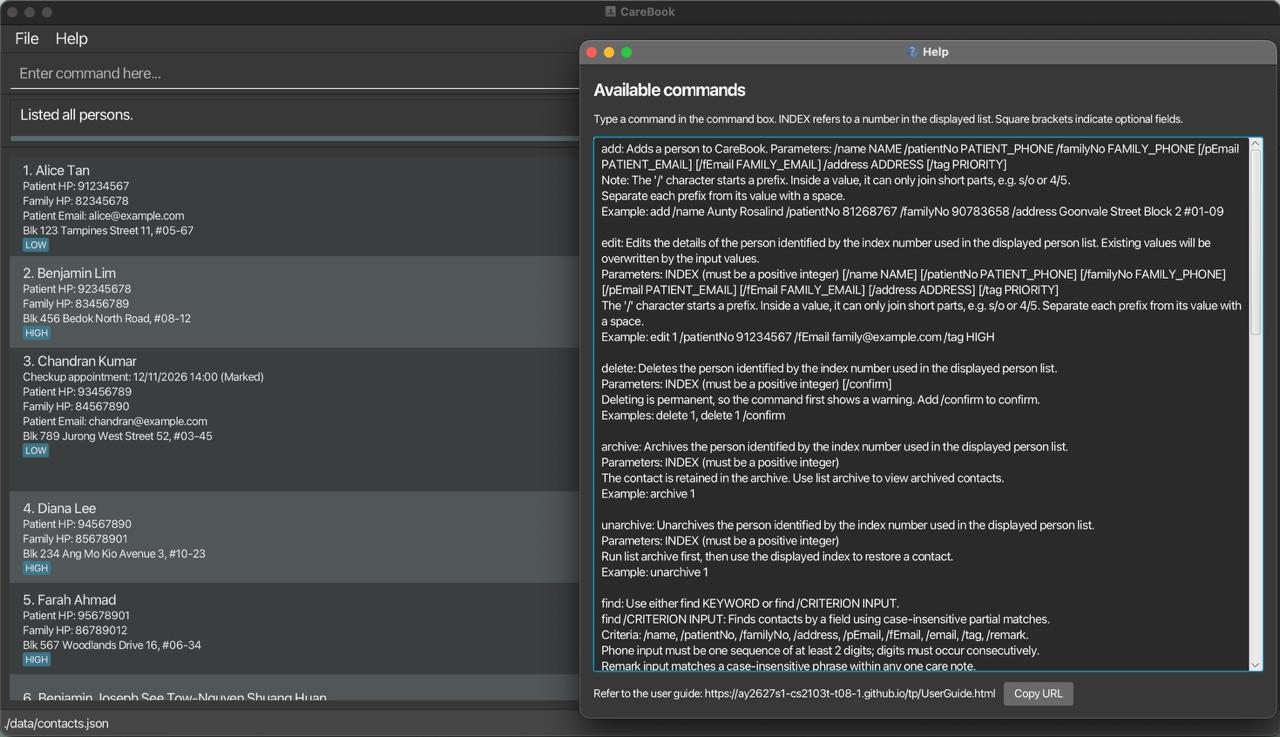
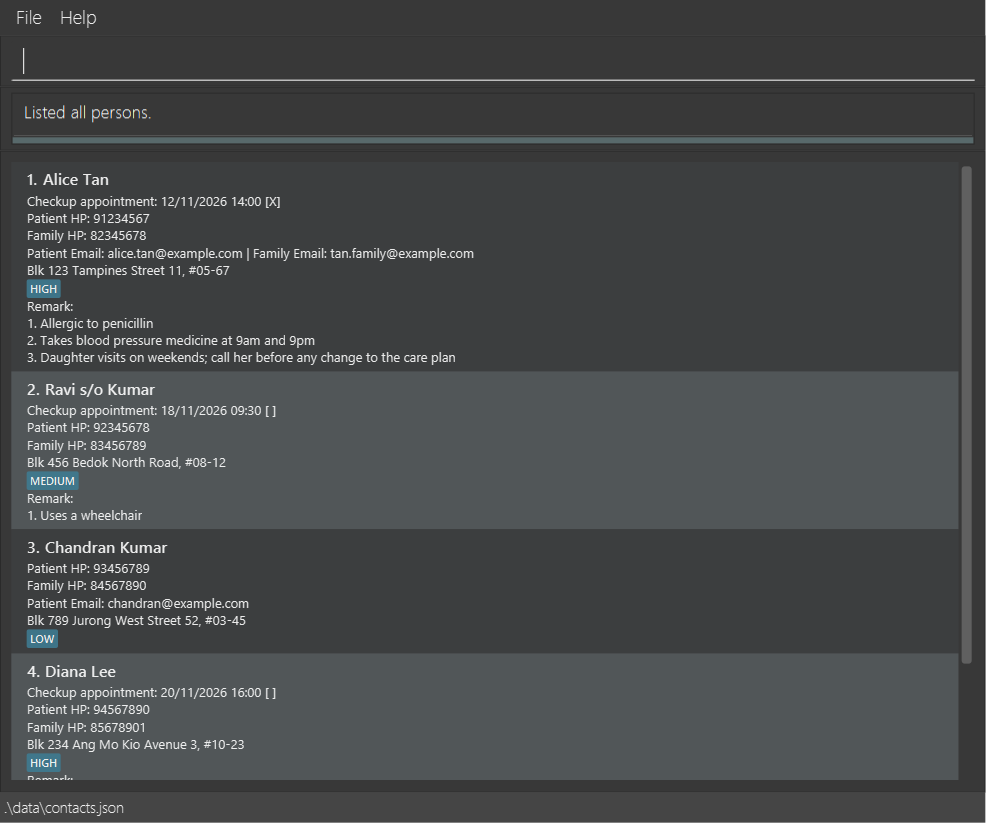
Update the screenshot and About Us links

diff --git a/docs/AboutUs.md b/docs/AboutUs.md
@@ -24,7 +24,6 @@ You can reach us at the email `seer[at]comp.nus.edu.sg`
 <img src="images/malyalakusumita.png" width="200px">
 
 [[github](http://github.com/malyalakusumita)]
-[[portfolio](team/johndoe.md)]
 
 * Role: Team Lead
 * Responsibilities: UI
@@ -34,7 +33,6 @@ You can reach us at the email `seer[at]comp.nus.edu.sg`
 <img src="images/ys-243.png" width="200px">
 
 [[github](https://github.com/ys-243)]
-[[portfolio](team/johndoe.md)]
 
 * Role: Developer
 * Responsibilities: Data
@@ -53,7 +51,6 @@ You can reach us at the email `seer[at]comp.nus.edu.sg`
 <img src="images/carlyngohing.png" width="200px">
 
 [[github](http://github.com/carlyngohing)]
-[[portfolio](team/johndoe.md)]
 
 * Role: Developer
 * Responsibilities: UI
